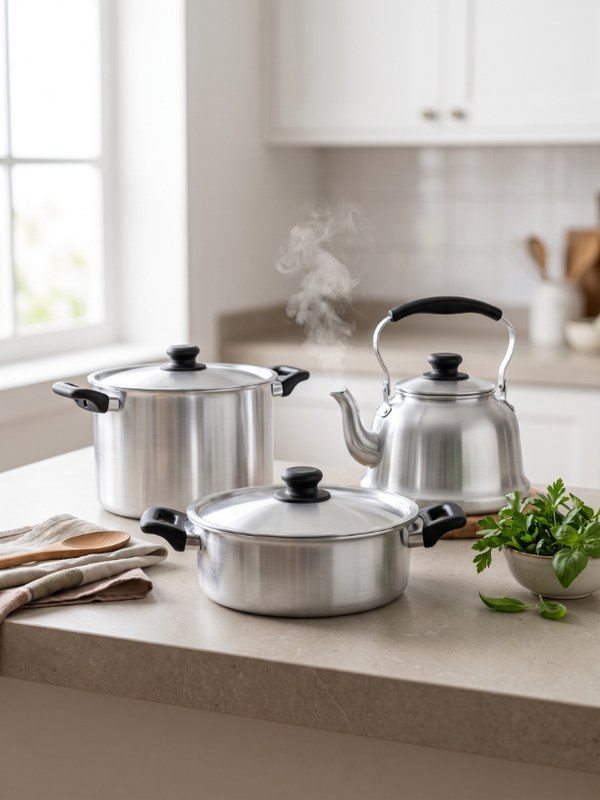
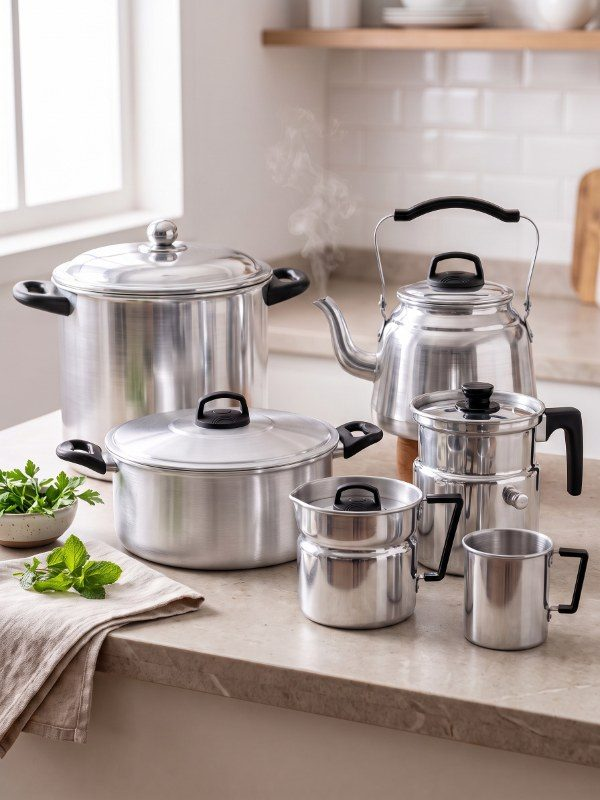
Alumix: 3 fotos IA fiéis ao catálogo (pegadores e alças conferidos)
Claude-Session: https://claude.ai/code/session_011WkFCDRCsEEwGXBLbtQ9YZ

diff --git a/index.html b/index.html
@@ -1359,7 +1359,7 @@ header.open .nav ul>li:not(.nav-m-cta):not(.nav-m-social)>a::before{content:none
     </div>
     <div class="ln-chips" role="group" aria-label="Filtrar linhas por marca"><button class="ln-chip" type="button" aria-pressed="true" data-f="*">Destaques</button><button class="ln-chip" type="button" aria-pressed="false" data-f="Grilazer" data-s="grilazer" translate="no">Grilazer</button><button class="ln-chip" type="button" aria-pressed="false" data-f="MTA" data-s="mta" translate="no">MTA</button><button class="ln-chip" type="button" aria-pressed="false" data-f="Mimo Style" data-s="mimo-style" translate="no">Mimo Style</button><button class="ln-chip" type="button" aria-pressed="false" data-f="Zippy" data-s="zippy" translate="no">Zippy</button><button class="ln-chip" type="button" aria-pressed="false" data-f="TermoPro" data-s="termopro" translate="no">TermoPro</button><button class="ln-chip" type="button" aria-pressed="false" data-f="Marcamix" data-s="marcamix" translate="no">Marcamix</button><button class="ln-chip" type="button" aria-pressed="false" data-f="Alumix" data-s="alumix" translate="no">Alumix</button><button class="ln-chip" type="button" aria-pressed="false" data-f="Gulê" data-s="gule" translate="no">Gulê</button><button class="ln-chip" type="button" aria-pressed="false" data-f="Tutaz" data-s="tutaz" translate="no">Tutaz</button></div>
     <p class="ln-back" id="lnBack" hidden><a href="#catalogos"><span class="ln-back-ic" aria-hidden="true"><svg class="ic" aria-hidden="true" focusable="false" xmlns="http://www.w3.org/2000/svg" viewBox="0 0 256 256" fill="currentColor"><path d="M198,64V168a6,6,0,0,1-12,0V78.48L68.24,196.24a6,6,0,0,1-8.48-8.48L177.52,70H88a6,6,0,0,1,0-12H192A6,6,0,0,1,198,64Z"/></svg></span> Voltar aos catálogos</a></p>
-    <ul class="ln-grid2" id="lnGrid" aria-live="polite"><li class="ln" data-b="Grilazer"><div class="ln-pic"><img src="assets/img/ln-expositor.jpg" alt="" width="600" height="800" loading="lazy"></div><b>Expositores</b><span translate="no">Grilazer</span></li><li class="ln" data-b="Grilazer"><div class="ln-pic"><img src="assets/img/ln-grelhas.jpg" alt="" width="600" height="800" loading="lazy"></div><b>Grelhas</b><span translate="no">Grilazer</span></li><li class="ln" data-b="Grilazer"><div class="ln-pic"><img src="assets/img/ln-chapas.jpg" alt="" width="600" height="800" loading="lazy"></div><b>Chapas de ferro</b><span translate="no">Grilazer</span></li><li class="ln" data-b="Grilazer"><div class="ln-pic"><img src="assets/img/ln-kits.jpg" alt="" width="600" height="800" loading="lazy"></div><b>Kits para churrasco</b><span translate="no">Grilazer</span></li><li class="ln" data-b="Grilazer"><div class="ln-pic"><img src="assets/img/ex-gr-espetos.jpg" alt="" width="600" height="800" loading="lazy"></div><b>Espetos</b><span translate="no">Grilazer</span></li><li class="ln" data-b="Grilazer"><div class="ln-pic"><img src="assets/img/ex-gr-churrasqueiras.jpg" alt="" width="600" height="800" loading="lazy"></div><b>Churrasqueiras</b><span translate="no">Grilazer</span></li><li class="ln" data-b="MTA"><div class="ln-pic"><img src="assets/img/ln-pressao-cinza.jpg" alt="" width="600" height="800" loading="lazy"></div><b>Panelas de pressão</b><span translate="no">MTA</span></li><li class="ln" data-b="MTA"><div class="ln-pic"><img src="assets/img/ln-ferro.jpg" alt="" width="600" height="800" loading="lazy"></div><b>Ferro fundido</b><span translate="no">MTA</span></li><li class="ln" data-b="MTA"><div class="ln-pic"><img src="assets/img/ex-mta-cacarolas.jpg" alt="" width="600" height="800" loading="lazy"></div><b>Caçarolas</b><span translate="no">MTA</span></li><li class="ln" data-b="MTA"><div class="ln-pic"><img src="assets/img/ex-mta-frigideiras.jpg" alt="" width="600" height="800" loading="lazy"></div><b>Frigideiras</b><span translate="no">MTA</span></li><li class="ln" data-b="MTA"><div class="ln-pic"><img src="assets/img/ex-mta-conjuntos.jpg" alt="" width="600" height="800" loading="lazy"></div><b>Conjuntos</b><span translate="no">MTA</span></li><li class="ln" data-b="MTA"><div class="ln-pic"><img src="assets/img/ex-mta-chaleiras.jpg" alt="" width="600" height="800" loading="lazy"></div><b>Chaleiras</b><span translate="no">MTA</span></li><li class="ln" data-b="Mimo Style"><div class="ln-pic"><img src="assets/img/ln-esmaltado.jpg" alt="" width="600" height="800" loading="lazy"></div><b>Esmaltado</b><span translate="no">Mimo Style</span></li><li class="ln" data-b="Mimo Style"><div class="ln-pic"><img src="assets/img/ln-guardanapo.jpg" alt="" width="600" height="800" loading="lazy"></div><b>Anel de guardanapo</b><span translate="no">Mimo Style</span></li><li class="ln" data-b="Mimo Style"><div class="ln-pic"><img src="assets/img/ex-mimo-acacia.jpg" alt="" width="600" height="800" loading="lazy"></div><b>Acácia</b><span translate="no">Mimo Style</span></li><li class="ln" data-b="Mimo Style"><div class="ln-pic"><img src="assets/img/ex-mimo-acessorios.jpg" alt="" width="600" height="800" loading="lazy"></div><b>Acessórios de cozinha</b><span translate="no">Mimo Style</span></li><li class="ln" data-b="Mimo Style"><div class="ln-pic"><img src="assets/img/ex-mimo-assadeiras.jpg" alt="" width="600" height="800" loading="lazy"></div><b>Assadeiras de metal</b><span translate="no">Mimo Style</span></li><li class="ln" data-b="Mimo Style"><div class="ln-pic"><img src="assets/img/ex-mimo-bambu.jpg" alt="" width="600" height="800" loading="lazy"></div><b>Bambu</b><span translate="no">Mimo Style</span></li><li class="ln" data-b="Mimo Style"><div class="ln-pic"><img src="assets/img/ex-mimo-banheiro.jpg" alt="" width="600" height="800" loading="lazy"></div><b>Banheiro</b><span translate="no">Mimo Style</span></li><li class="ln" data-b="Mimo Style"><div class="ln-pic"><img src="assets/img/ex-mimo-bar.jpg" alt="" width="600" height="800" loading="lazy"></div><b>Bar, queijo e vinho</b><span translate="no">Mimo Style</span></li><li class="ln" data-b="Mimo Style"><div class="ln-pic"><img src="assets/img/ex-mimo-cafe.jpg" alt="" width="600" height="800" loading="lazy"></div><b>Café e chá</b><span translate="no">Mimo Style</span></li><li class="ln" data-b="Mimo Style"><div class="ln-pic"><img src="assets/img/ex-mimo-confeitaria.jpg" alt="" width="600" height="800" loading="lazy"></div><b>Confeitaria</b><span translate="no">Mimo Style</span></li><li class="ln" data-b="Mimo Style"><div class="ln-pic"><img src="assets/img/ex-mimo-cutelaria.jpg" alt="" width="600" height="800" loading="lazy"></div><b>Cutelaria</b><span translate="no">Mimo Style</span></li><li class="ln" data-b="Mimo Style"><div class="ln-pic"><img src="assets/img/ex-mimo-mesa.jpg" alt="" width="600" height="800" loading="lazy"></div><b>Mesa posta</b><span translate="no">Mimo Style</span></li><li class="ln" data-b="Mimo Style"><div class="ln-pic"><img src="assets/img/ex-mimo-churrasco.jpg" alt="" width="600" height="800" loading="lazy"></div><b>Churrasco</b><span translate="no">Mimo Style</span></li><li class="ln" data-b="Zippy"><div class="ln-pic"><img src="assets/img/ln-jogos.jpg" alt="" width="600" height="800" loading="lazy"></div><b>Jogos</b><span translate="no">Zippy</span></li><li class="ln" data-b="Zippy"><div class="ln-pic"><img src="assets/img/ln-cozinhas.jpg" alt="" width="600" height="800" loading="lazy"></div><b>Cozinhas de brinquedo</b><span translate="no">Zippy</span></li><li class="ln" data-b="Zippy"><div class="ln-pic"><img src="assets/img/ex-zp-veiculos.jpg" alt="" width="600" height="800" loading="lazy"></div><b>Veículos</b><span translate="no">Zippy</span></li><li class="ln" data-b="Zippy"><div class="ln-pic"><img src="assets/img/ex-zp-bonecas.jpg" alt="" width="600" height="800" loading="lazy"></div><b>Bonecas</b><span translate="no">Zippy</span></li><li class="ln" data-b="TermoPro"><div class="ln-pic"><img src="assets/img/ln-jarras.jpg" alt="" width="600" height="800" loading="lazy"></div><b>Jarras térmicas</b><span translate="no">TermoPro</span></li><li class="ln" data-b="TermoPro"><div class="ln-pic"><img src="assets/img/ln-garrafas.jpg" alt="" width="600" height="800" loading="lazy"></div><b>Garrafas térmicas</b><span translate="no">TermoPro</span></li><li class="ln" data-b="TermoPro"><div class="ln-pic"><img src="assets/img/ex-tp-copos.jpg" alt="" width="600" height="800" loading="lazy"></div><b>Copos</b><span translate="no">TermoPro</span></li><li class="ln" data-b="TermoPro"><div class="ln-pic"><img src="assets/img/ex-tp-canecas.jpg" alt="" width="600" height="800" loading="lazy"></div><b>Canecas</b><span translate="no">TermoPro</span></li><li class="ln" data-b="Marcamix"><div class="ln-pic"><img src="assets/img/ex-mx-lc1804.jpg" alt="" width="600" height="800" loading="lazy"></div><b>Panelas Le Cook</b><span translate="no">Marcamix</span></li><li class="ln" data-b="Marcamix"><div class="ln-pic"><img src="assets/img/ex-mx-cacarolas.jpg" alt="" width="600" height="800" loading="lazy"></div><b>Caçarolas Le Cook</b><span translate="no">Marcamix</span></li><li class="ln" data-b="Alumix"><div class="ln-pic"><img src="assets/img/al-ambiente-ia.jpg" alt="" width="600" height="800" loading="lazy"></div><b>Linha de alumínio</b><span translate="no">Alumix</span></li><li class="ln" data-b="Alumix"><div class="ln-pic"><img src="assets/img/al-cacarolas.jpg" alt="" width="600" height="800" loading="lazy"></div><b>Caçarolas</b><span translate="no">Alumix</span></li><li class="ln" data-b="Alumix"><div class="ln-pic"><img src="assets/img/al-caldeiroes.jpg" alt="" width="600" height="800" loading="lazy"></div><b>Caldeirões</b><span translate="no">Alumix</span></li><li class="ln" data-b="Alumix"><div class="ln-pic"><img src="assets/img/al-chaleiras.jpg" alt="" width="600" height="800" loading="lazy"></div><b>Chaleiras</b><span translate="no">Alumix</span></li><li class="ln" data-b="Alumix"><div class="ln-pic"><img src="assets/img/al-canecas.jpg" alt="" width="600" height="800" loading="lazy"></div><b>Canecos</b><span translate="no">Alumix</span></li><li class="ln" data-b="Alumix"><div class="ln-pic"><img src="assets/img/al-fervedores.jpg" alt="" width="600" height="800" loading="lazy"></div><b>Fervedores</b><span translate="no">Alumix</span></li><li class="ln" data-b="Alumix"><div class="ln-pic"><img src="assets/img/al-leiteiras.jpg" alt="" width="600" height="800" loading="lazy"></div><b>Leiteiras de apito</b><span translate="no">Alumix</span></li><li class="ln" data-b="Alumix"><div class="ln-pic"><img src="assets/img/al-assadeiras.jpg" alt="" width="600" height="800" loading="lazy"></div><b>Assadeiras</b><span translate="no">Alumix</span></li><li class="ln" data-b="Alumix"><div class="ln-pic"><img src="assets/img/al-formas.jpg" alt="" width="600" height="800" loading="lazy"></div><b>Formas de bolo</b><span translate="no">Alumix</span></li><li class="ln" data-b="Alumix"><div class="ln-pic"><img src="assets/img/al-panelaos.jpg" alt="" width="600" height="800" loading="lazy"></div><b>Panelões</b><span translate="no">Alumix</span></li><li class="ln" data-b="Alumix"><div class="ln-pic"><img src="assets/img/al-colorida.jpg" alt="" width="600" height="800" loading="lazy"></div><b>Linha colorida</b><span translate="no">Alumix</span></li><li class="ln" data-b="Gulê"><div class="ln-pic"><img src="assets/img/ex-gu-panelas.jpg" alt="" width="600" height="800" loading="lazy"></div><b>Alumínio fundido</b><span translate="no">Gulê</span></li><li class="ln" data-b="Tutaz"><div class="ln-pic"><img src="assets/img/ex-tz-utensilios.jpg" alt="" width="600" height="800" loading="lazy"></div><b>Utensílios de cozinha</b><span translate="no">Tutaz</span></li></ul>
+    <ul class="ln-grid2" id="lnGrid" aria-live="polite"><li class="ln" data-b="Grilazer"><div class="ln-pic"><img src="assets/img/ln-expositor.jpg" alt="" width="600" height="800" loading="lazy"></div><b>Expositores</b><span translate="no">Grilazer</span></li><li class="ln" data-b="Grilazer"><div class="ln-pic"><img src="assets/img/ln-grelhas.jpg" alt="" width="600" height="800" loading="lazy"></div><b>Grelhas</b><span translate="no">Grilazer</span></li><li class="ln" data-b="Grilazer"><div class="ln-pic"><img src="assets/img/ln-chapas.jpg" alt="" width="600" height="800" loading="lazy"></div><b>Chapas de ferro</b><span translate="no">Grilazer</span></li><li class="ln" data-b="Grilazer"><div class="ln-pic"><img src="assets/img/ln-kits.jpg" alt="" width="600" height="800" loading="lazy"></div><b>Kits para churrasco</b><span translate="no">Grilazer</span></li><li class="ln" data-b="Grilazer"><div class="ln-pic"><img src="assets/img/ex-gr-espetos.jpg" alt="" width="600" height="800" loading="lazy"></div><b>Espetos</b><span translate="no">Grilazer</span></li><li class="ln" data-b="Grilazer"><div class="ln-pic"><img src="assets/img/ex-gr-churrasqueiras.jpg" alt="" width="600" height="800" loading="lazy"></div><b>Churrasqueiras</b><span translate="no">Grilazer</span></li><li class="ln" data-b="MTA"><div class="ln-pic"><img src="assets/img/ln-pressao-cinza.jpg" alt="" width="600" height="800" loading="lazy"></div><b>Panelas de pressão</b><span translate="no">MTA</span></li><li class="ln" data-b="MTA"><div class="ln-pic"><img src="assets/img/ln-ferro.jpg" alt="" width="600" height="800" loading="lazy"></div><b>Ferro fundido</b><span translate="no">MTA</span></li><li class="ln" data-b="MTA"><div class="ln-pic"><img src="assets/img/ex-mta-cacarolas.jpg" alt="" width="600" height="800" loading="lazy"></div><b>Caçarolas</b><span translate="no">MTA</span></li><li class="ln" data-b="MTA"><div class="ln-pic"><img src="assets/img/ex-mta-frigideiras.jpg" alt="" width="600" height="800" loading="lazy"></div><b>Frigideiras</b><span translate="no">MTA</span></li><li class="ln" data-b="MTA"><div class="ln-pic"><img src="assets/img/ex-mta-conjuntos.jpg" alt="" width="600" height="800" loading="lazy"></div><b>Conjuntos</b><span translate="no">MTA</span></li><li class="ln" data-b="MTA"><div class="ln-pic"><img src="assets/img/ex-mta-chaleiras.jpg" alt="" width="600" height="800" loading="lazy"></div><b>Chaleiras</b><span translate="no">MTA</span></li><li class="ln" data-b="Mimo Style"><div class="ln-pic"><img src="assets/img/ln-esmaltado.jpg" alt="" width="600" height="800" loading="lazy"></div><b>Esmaltado</b><span translate="no">Mimo Style</span></li><li class="ln" data-b="Mimo Style"><div class="ln-pic"><img src="assets/img/ln-guardanapo.jpg" alt="" width="600" height="800" loading="lazy"></div><b>Anel de guardanapo</b><span translate="no">Mimo Style</span></li><li class="ln" data-b="Mimo Style"><div class="ln-pic"><img src="assets/img/ex-mimo-acacia.jpg" alt="" width="600" height="800" loading="lazy"></div><b>Acácia</b><span translate="no">Mimo Style</span></li><li class="ln" data-b="Mimo Style"><div class="ln-pic"><img src="assets/img/ex-mimo-acessorios.jpg" alt="" width="600" height="800" loading="lazy"></div><b>Acessórios de cozinha</b><span translate="no">Mimo Style</span></li><li class="ln" data-b="Mimo Style"><div class="ln-pic"><img src="assets/img/ex-mimo-assadeiras.jpg" alt="" width="600" height="800" loading="lazy"></div><b>Assadeiras de metal</b><span translate="no">Mimo Style</span></li><li class="ln" data-b="Mimo Style"><div class="ln-pic"><img src="assets/img/ex-mimo-bambu.jpg" alt="" width="600" height="800" loading="lazy"></div><b>Bambu</b><span translate="no">Mimo Style</span></li><li class="ln" data-b="Mimo Style"><div class="ln-pic"><img src="assets/img/ex-mimo-banheiro.jpg" alt="" width="600" height="800" loading="lazy"></div><b>Banheiro</b><span translate="no">Mimo Style</span></li><li class="ln" data-b="Mimo Style"><div class="ln-pic"><img src="assets/img/ex-mimo-bar.jpg" alt="" width="600" height="800" loading="lazy"></div><b>Bar, queijo e vinho</b><span translate="no">Mimo Style</span></li><li class="ln" data-b="Mimo Style"><div class="ln-pic"><img src="assets/img/ex-mimo-cafe.jpg" alt="" width="600" height="800" loading="lazy"></div><b>Café e chá</b><span translate="no">Mimo Style</span></li><li class="ln" data-b="Mimo Style"><div class="ln-pic"><img src="assets/img/ex-mimo-confeitaria.jpg" alt="" width="600" height="800" loading="lazy"></div><b>Confeitaria</b><span translate="no">Mimo Style</span></li><li class="ln" data-b="Mimo Style"><div class="ln-pic"><img src="assets/img/ex-mimo-cutelaria.jpg" alt="" width="600" height="800" loading="lazy"></div><b>Cutelaria</b><span translate="no">Mimo Style</span></li><li class="ln" data-b="Mimo Style"><div class="ln-pic"><img src="assets/img/ex-mimo-mesa.jpg" alt="" width="600" height="800" loading="lazy"></div><b>Mesa posta</b><span translate="no">Mimo Style</span></li><li class="ln" data-b="Mimo Style"><div class="ln-pic"><img src="assets/img/ex-mimo-churrasco.jpg" alt="" width="600" height="800" loading="lazy"></div><b>Churrasco</b><span translate="no">Mimo Style</span></li><li class="ln" data-b="Zippy"><div class="ln-pic"><img src="assets/img/ln-jogos.jpg" alt="" width="600" height="800" loading="lazy"></div><b>Jogos</b><span translate="no">Zippy</span></li><li class="ln" data-b="Zippy"><div class="ln-pic"><img src="assets/img/ln-cozinhas.jpg" alt="" width="600" height="800" loading="lazy"></div><b>Cozinhas de brinquedo</b><span translate="no">Zippy</span></li><li class="ln" data-b="Zippy"><div class="ln-pic"><img src="assets/img/ex-zp-veiculos.jpg" alt="" width="600" height="800" loading="lazy"></div><b>Veículos</b><span translate="no">Zippy</span></li><li class="ln" data-b="Zippy"><div class="ln-pic"><img src="assets/img/ex-zp-bonecas.jpg" alt="" width="600" height="800" loading="lazy"></div><b>Bonecas</b><span translate="no">Zippy</span></li><li class="ln" data-b="TermoPro"><div class="ln-pic"><img src="assets/img/ln-jarras.jpg" alt="" width="600" height="800" loading="lazy"></div><b>Jarras térmicas</b><span translate="no">TermoPro</span></li><li class="ln" data-b="TermoPro"><div class="ln-pic"><img src="assets/img/ln-garrafas.jpg" alt="" width="600" height="800" loading="lazy"></div><b>Garrafas térmicas</b><span translate="no">TermoPro</span></li><li class="ln" data-b="TermoPro"><div class="ln-pic"><img src="assets/img/ex-tp-copos.jpg" alt="" width="600" height="800" loading="lazy"></div><b>Copos</b><span translate="no">TermoPro</span></li><li class="ln" data-b="TermoPro"><div class="ln-pic"><img src="assets/img/ex-tp-canecas.jpg" alt="" width="600" height="800" loading="lazy"></div><b>Canecas</b><span translate="no">TermoPro</span></li><li class="ln" data-b="Marcamix"><div class="ln-pic"><img src="assets/img/ex-mx-lc1804.jpg" alt="" width="600" height="800" loading="lazy"></div><b>Panelas Le Cook</b><span translate="no">Marcamix</span></li><li class="ln" data-b="Marcamix"><div class="ln-pic"><img src="assets/img/ex-mx-cacarolas.jpg" alt="" width="600" height="800" loading="lazy"></div><b>Caçarolas Le Cook</b><span translate="no">Marcamix</span></li><li class="ln" data-b="Alumix"><div class="ln-pic"><img src="assets/img/al-ambiente-ia.jpg" alt="" width="600" height="800" loading="lazy"></div><b>Linha de alumínio</b><span translate="no">Alumix</span></li><li class="ln" data-b="Alumix"><div class="ln-pic"><img src="assets/img/al-ia-confeitaria.jpg" alt="" width="600" height="800" loading="lazy"></div><b>Confeitaria e panelões</b><span translate="no">Alumix</span></li><li class="ln" data-b="Alumix"><div class="ln-pic"><img src="assets/img/al-ia-colorida.jpg" alt="" width="600" height="800" loading="lazy"></div><b>Linha colorida em uso</b><span translate="no">Alumix</span></li><li class="ln" data-b="Alumix"><div class="ln-pic"><img src="assets/img/al-cacarolas.jpg" alt="" width="600" height="800" loading="lazy"></div><b>Caçarolas</b><span translate="no">Alumix</span></li><li class="ln" data-b="Alumix"><div class="ln-pic"><img src="assets/img/al-caldeiroes.jpg" alt="" width="600" height="800" loading="lazy"></div><b>Caldeirões</b><span translate="no">Alumix</span></li><li class="ln" data-b="Alumix"><div class="ln-pic"><img src="assets/img/al-chaleiras.jpg" alt="" width="600" height="800" loading="lazy"></div><b>Chaleiras</b><span translate="no">Alumix</span></li><li class="ln" data-b="Alumix"><div class="ln-pic"><img src="assets/img/al-canecas.jpg" alt="" width="600" height="800" loading="lazy"></div><b>Canecos</b><span translate="no">Alumix</span></li><li class="ln" data-b="Alumix"><div class="ln-pic"><img src="assets/img/al-fervedores.jpg" alt="" width="600" height="800" loading="lazy"></div><b>Fervedores</b><span translate="no">Alumix</span></li><li class="ln" data-b="Alumix"><div class="ln-pic"><img src="assets/img/al-leiteiras.jpg" alt="" width="600" height="800" loading="lazy"></div><b>Leiteiras de apito</b><span translate="no">Alumix</span></li><li class="ln" data-b="Alumix"><div class="ln-pic"><img src="assets/img/al-assadeiras.jpg" alt="" width="600" height="800" loading="lazy"></div><b>Assadeiras</b><span translate="no">Alumix</span></li><li class="ln" data-b="Alumix"><div class="ln-pic"><img src="assets/img/al-formas.jpg" alt="" width="600" height="800" loading="lazy"></div><b>Formas de bolo</b><span translate="no">Alumix</span></li><li class="ln" data-b="Alumix"><div class="ln-pic"><img src="assets/img/al-panelaos.jpg" alt="" width="600" height="800" loading="lazy"></div><b>Panelões</b><span translate="no">Alumix</span></li><li class="ln" data-b="Alumix"><div class="ln-pic"><img src="assets/img/al-colorida.jpg" alt="" width="600" height="800" loading="lazy"></div><b>Linha colorida</b><span translate="no">Alumix</span></li><li class="ln" data-b="Gulê"><div class="ln-pic"><img src="assets/img/ex-gu-panelas.jpg" alt="" width="600" height="800" loading="lazy"></div><b>Alumínio fundido</b><span translate="no">Gulê</span></li><li class="ln" data-b="Tutaz"><div class="ln-pic"><img src="assets/img/ex-tz-utensilios.jpg" alt="" width="600" height="800" loading="lazy"></div><b>Utensílios de cozinha</b><span translate="no">Tutaz</span></li></ul>
     <p class="ln-note" id="lnNote" hidden>As fotos das linhas marcadas chegam com o banco de imagens da marca. <span class="tbd">fotos a receber</span></p>
   </div>
 </section>
